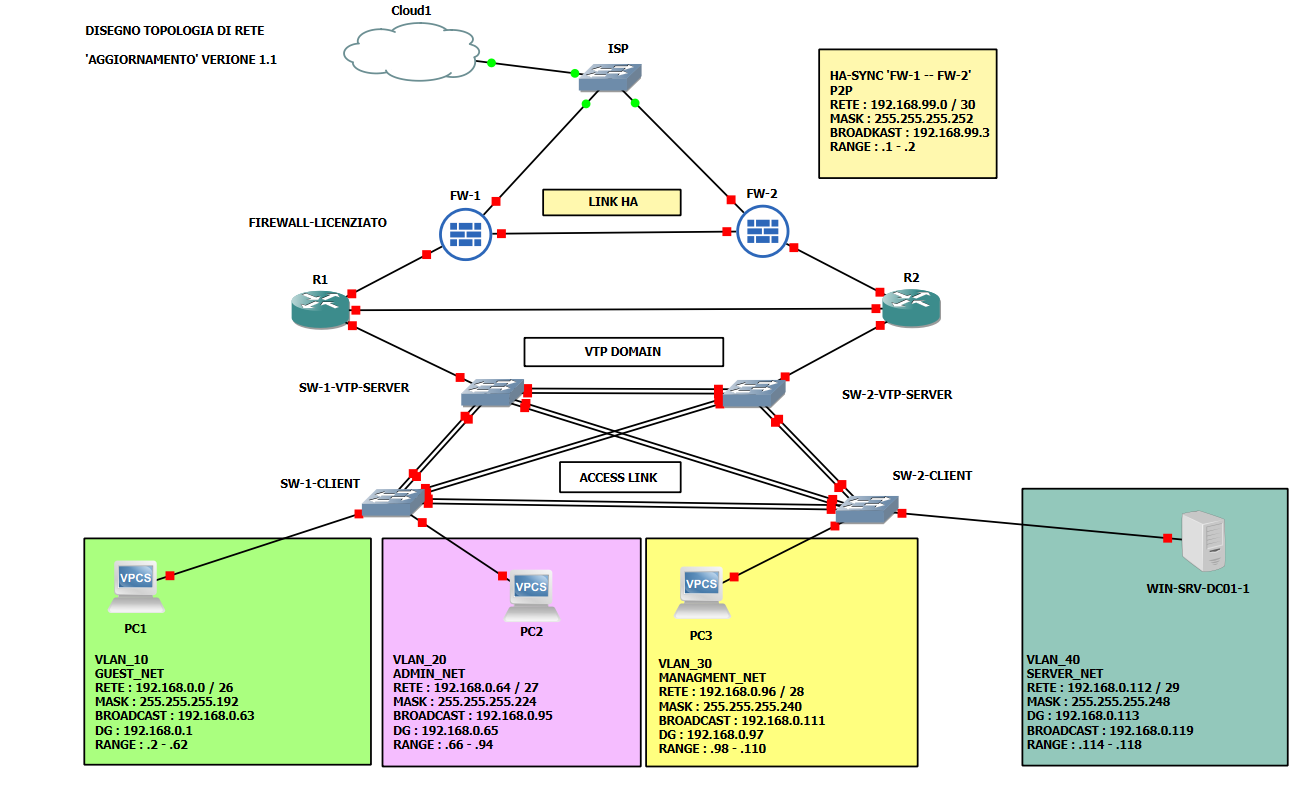
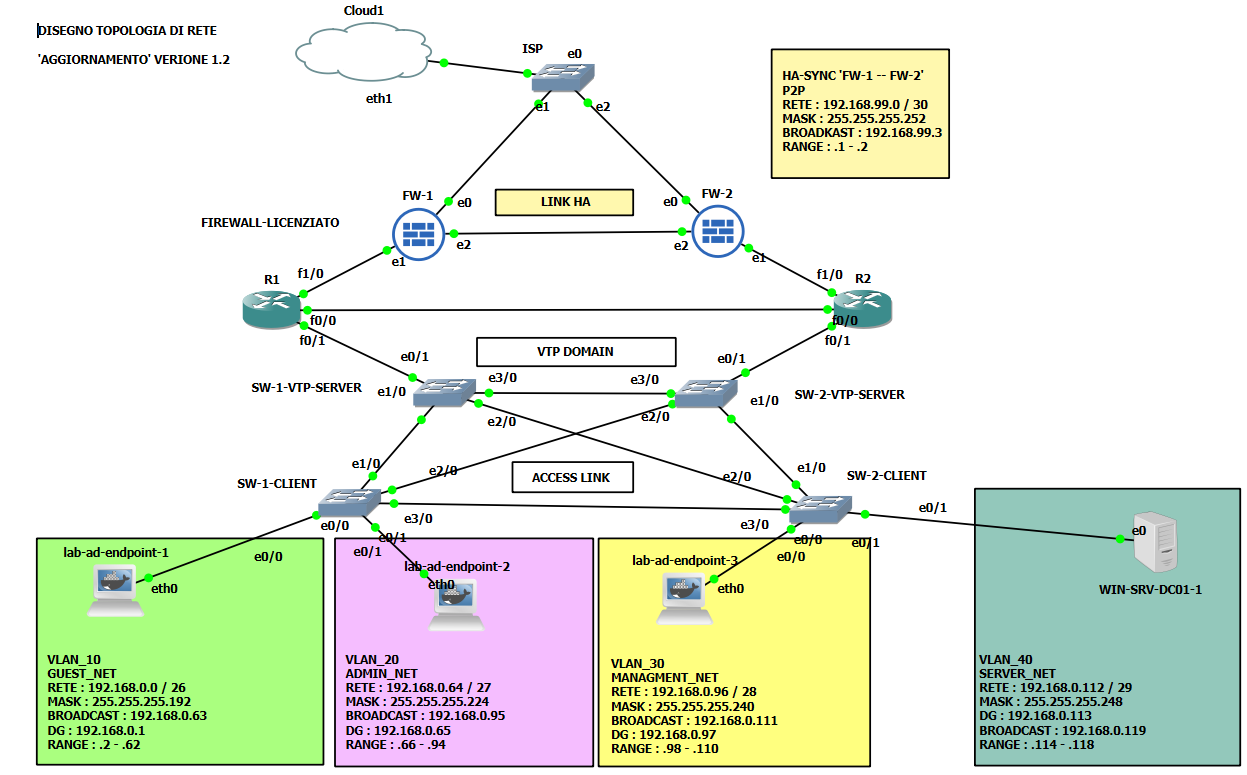
[UPD] eliminato il port-channel

diff --git a/index.html b/index.html
@@ -842,10 +842,7 @@
                   <li>Configurazione dominio VTP e versionamento</li>
                   <li>Password VTP</li>
                   <li>Impostazione modalità VTP</li>
-                  <li>Creazione Port-Channel (LACP)</li>
-                  <li>
-                    Configurazione trunk 802.1Q sulle interfacce Port-Channel
-                  </li>
+                  <li>Creazione dei Port-Channel (LACP)</li>
                   <li>
                     Configurazione interfacce in trunk verso i firewall
                     FortiGate
@@ -1357,38 +1354,94 @@
                   "LEONARDO") + Port Channel
                 </h4>
                 <p>
-                  Durante la configurazione del protocollo VTP, quando abbiamo
-                  impostato una password per il dominio VTP, questa veniva
-                  mostrata in chiaro — inizialmente ho pensato fosse un problema
-                  legato alla versione del VTP, ma anche impostando la versione
-                  3 la password rimaneva comunque in chiaro senza hash. Il
-                  problema è stato risolto con il comando completo
-                  <code>vtp password StrongPassword123 hidden</code>: la parola
-                  chiave "hidden" è proprio quella che memorizza la password
-                  cifrata.
+                  <p>Nel capitolo 2, è stata osservata, sui collegamenti
+                    aggregati in Port-Channel, una perdita di pacchetti intermittente
+                    verso gli indirizzi virtuali HSRP, questo creava dei loop di rete.
+                    L'ipotesi di di una correlazione diretta tra Port-Channel e HSRP
+                    non è stata confermata. <br>
+                    Durante la fase di test è stato osservato che le porte impostate in
+                    Blocking dal protocollo STP, continuavano ad apprendere MAC, causando
+                    la perdita di pacchetti verso gli indirizzi virtuali HSRP. <br>
+                    Come mitigazione, è stata rimossa la configurazione dei Port-Channel,
+                    sostituita da un singolo cavo fisico per definire il collegamento. <br>
+                    A seguito di questa modifica, ho notato un netto miglioramento della
+                    connettività, anche attraverso i test di failover i protocolli
+                    rispondevano correttamente. <br>
+                    Ho notato un ritardo dei tempi di convergenza durante lo spegnimento
+                    dello switch eletto a Root Bridge nella rete. <br>
+                    La causa è stata isolata nei link-type RSTP, i link vengono rilevati
+                    automaticamente come 'Shared' e non come 'Point-to-Point', 
+                    causando un ritardo nella convergenza del protocollo STP. <br>
+                  </p>
+                  <br>
+                  <ul class="config-explain">
+                    <li>
+                      Dismissione della porta ridondante e rimozione dei Port-Channel
+                    </li>
+                    <li>
+                      Applicazione del link-type 'Point-to-Point'
+                    </li>
+                  </ul>
                 </p>
-                <p>
-                  Durante la configurazione del Port-Channel, alcune interfacce
-                  risultavano sospese; il problema si è risolto una volta
-                  completata su tutti gli switch la configurazione del
-                  Port-Channel — è un comportamento normale del protocollo LACP.
-                </p>
-                <p>
-                  Valori di banda (BW) inconsistenti e casuali sui Port-Channel:
-                  ogni Port-Channel su ogni switch mostrava valori di banda
-                  diversi e imprevedibili (10.000, 20.000 o 100.000 Kbit/sec,
-                  invece del corretto 20.000), accompagnati da errori di log
-                  %IDBMAN-3-INVALIDAGGPORTBANDWIDTH e %IDBMAN-3-AGGPORTMISMATCH
-                  — difetto di sincronizzazione interna della piattaforma tra la
-                  struttura dati del Port-Channel e quella delle interfacce
-                  fisiche. Corretto forzando manualmente
-                  <code>bandwidth 20000</code> su ogni Port-Channel di ogni
-                  switch, per garantire un valore coerente ai fini del calcolo
-                  del costo STP. Questo passaggio va eseguito entrando
-                  nell'interfaccia aggregata con
-                  <code>interface port-channel n</code>, e va ripetuto su tutti
-                  i link aggregati.
-                </p>
+              </div>
+              <br>
+              <div class="obj-trace">
+                <h4>1 - Dismissione della porta ridondante e rimozione dei Port-Channel</h4>
+                  <img
+                  src="./img/Dismissione della porta ridondante e rimozione del Port-Channel.png"
+                  alt="Traccia configurazioni - canvas GNS3"
+                  class="obj-image"m
+                />
+                <p>Questo blocco di comandi va eseguito su tutti gli switch.</p>
+                <br>
+                 <ul class="config-explain">
+                    <li>
+                      <code>shutdown :</code> Spegne la porta ridondante
+                    </li>
+                    <li>
+                      <code>no channel-group 'n' mode active :</code> Rimuove la configurazione del Port-Channel
+                    </li>
+                    <li>
+                      <code>switchport mode access + switchport access vlan 'n' :</code> Riassegna la porta alla vlan parcheggio
+                    </li>
+                    <li>
+                      <code>no interface port-channel 'n' :</code> Elimina l'interfaccia logica del Port-Channel.
+                    </li>
+                  </ul>
+                  <br>
+                  <h4>Comandi di diagnostica</h4>
+                  <ul class="config-explain">
+                    <li>
+                      <code>show etherchannel summary :</code> Mostra l'insieme di tutti i pool logici creati, le interfacce fisiche coinvolte e il loro stato di attività.
+                    </li>
+                    <li>
+                      <code>show interfaces port-channel 'n' :</code> Mostra nel dettaglio ogni singola interfaccia logica, elencando stato di attività, banda aggregata e indirizzo fisico.
+                    </li>
+              </div>
+              <br>
+              <div class="obj-trace">
+                <h4>2 - Applicazione del link-type 'Point-to-Point'</h4>
+                  <img
+                  src="./img/Applicazione_Link_Type.png"
+                  alt="Traccia configurazioni - canvas GNS3"
+                  class="obj-image"m
+                />
+                <p>Questo blocco di comandi va eseguito su tutti gli switch.</p>
+                <br>
+                 <ul class="config-explain">
+                    <li>
+                      <code>spanning-tree link-type point-to-point :</code> Applica il tipo di link 'Point-to-Point' alla porta
+                    </li>
+                  </ul>
+                  <br>
+                  <h4>Comandi di diagnostica</h4>
+                  <ul class="config-explain">
+                    <li>
+                      <code>show spanning-tree interface Etherner'n' detal :</code> Conferma la tipologia del collegamento
+                    </li>
+                    <li>
+                      <code>show spanning-tree vlan 'n' :</code> Mostra in colonna la tipologia del collegamento
+                    </li>
               </div>
             </div>
           </details>
